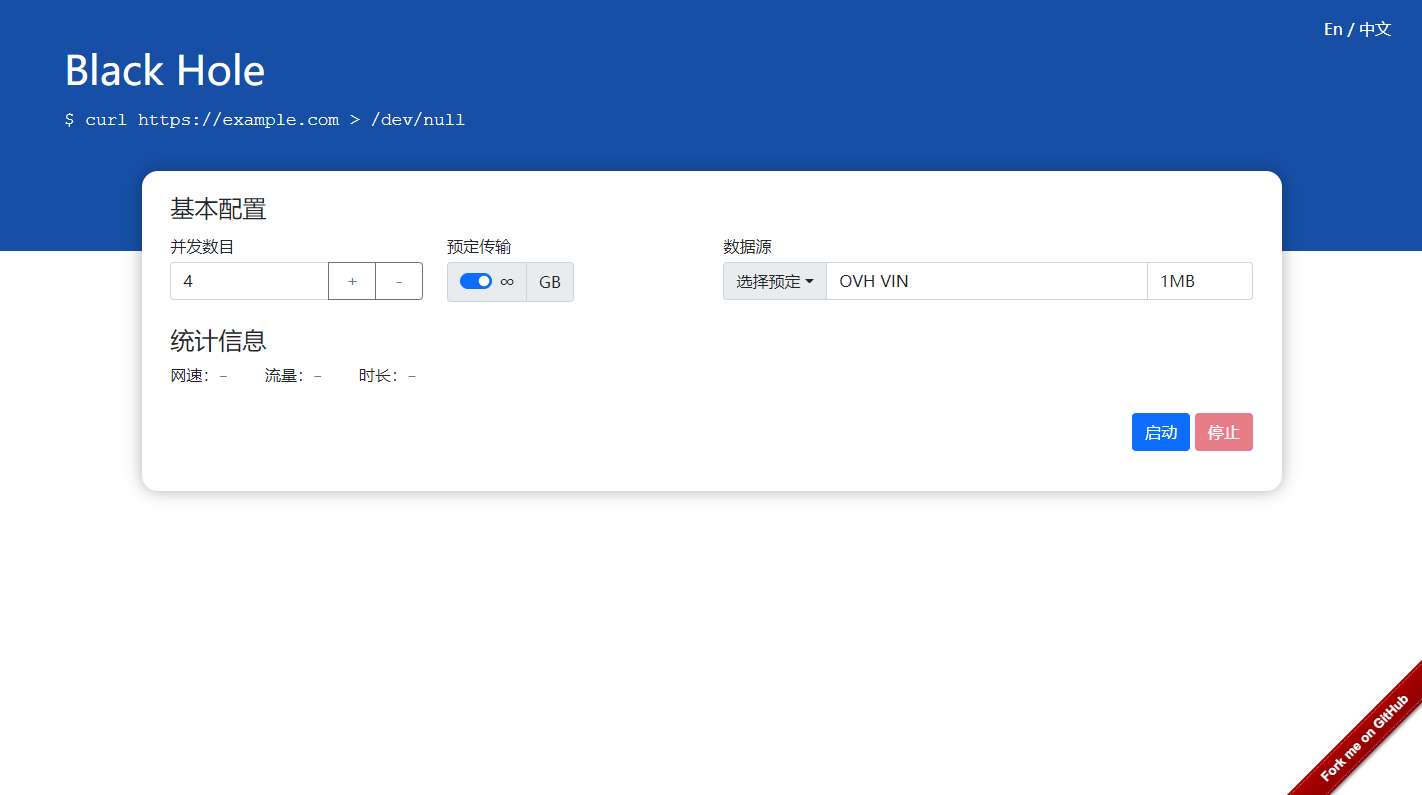
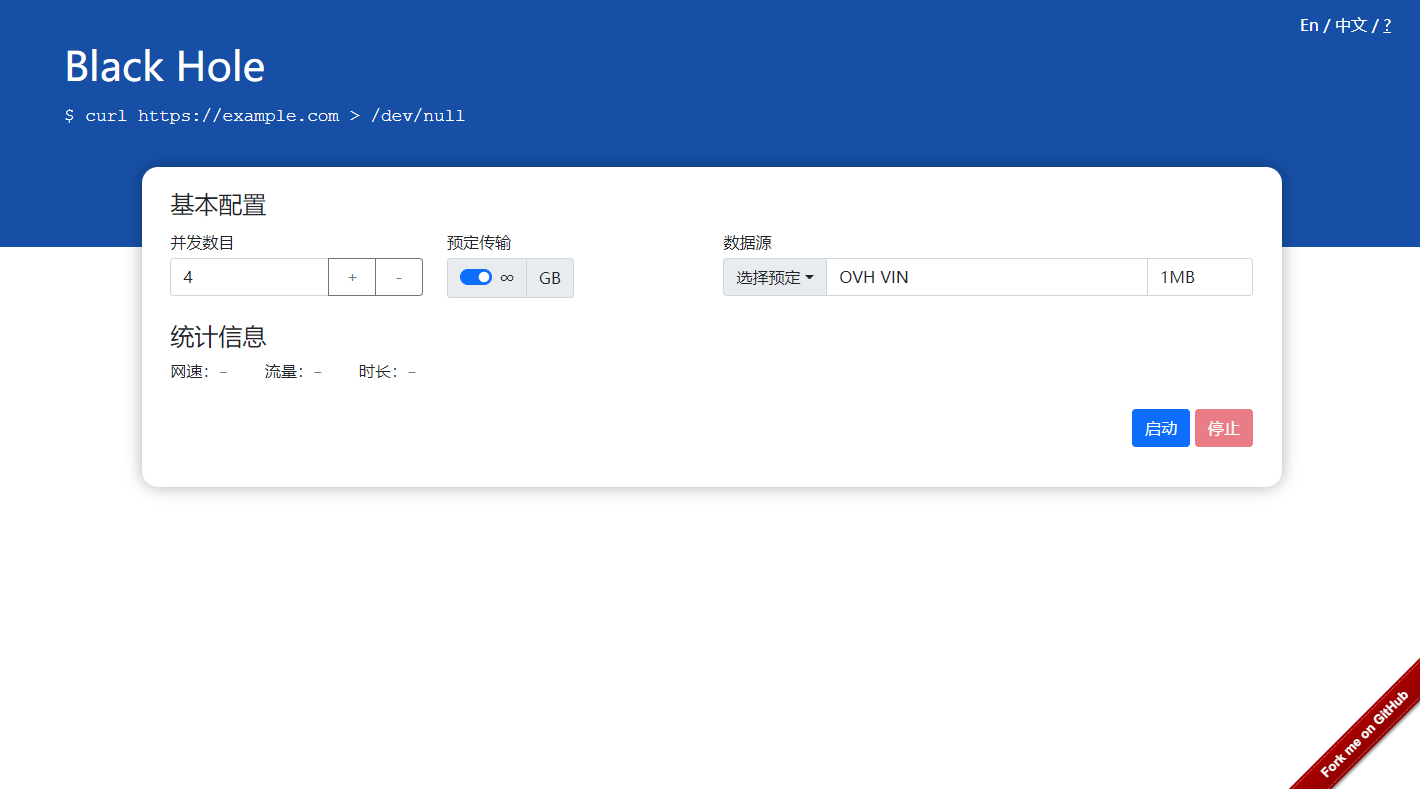
change readme & add helper to index.html

diff --git a/docs/index.html b/docs/index.html
@@ -20,7 +20,8 @@
         <header>
             <h1>Black Hole</h1>
             <h2 class="code">$ curl https://example.com > /dev/null</h2>
-            <div class="lang"><span data-lang="en">En</span> / <span data-lang="cn">中文</span></div>
+            <div class="lang"><span data-lang="en">En</span> / <span data-lang="cn">中文</span>
+                / <a href="#helper-container" style="color: white;">?</a></div>
         </header>
         <form id="app">
             <h4 for="task-count-group" class="form-label">{{ $t('message.s2') }}</h4>
@@ -170,7 +171,22 @@
     </section>
 
     <section id="helper-container">
-        <h2>About</h2>
+        <h2>关于</h2>
+        <p>
+            为了方便测量代理服务和网络质量，我开发了这个简单的项目。这个小玩具唯一的作用就是不断消耗网络流量，记录速度、流量等统计信息。 如果使用代理软件（如 vpn、sock5/http 代理）访问改网站，就可以知道代理网络的质量如何。
+        </p>
+        <h2>注意</h2>
+        <h3>1. 测试过程中<b>不会</b>消耗网站所在服务器的流量</h3>
+        <p>
+            有趣的设计是这个项目使用了一些公共looking glass服务作为数据源，所以在测试过程中它不会消耗主机提供商的流量。 如果你想自己托管它，这一点就非常有意义。
+        </p>
+        <h3>2. 测试过程中不要忘记开代理</h3>
+        <p>
+            测试过程中不要忘记开代理，否则花费的仅是你本地网络的流量而不会消耗代理服务器的流量。
+        </p>
+
+
+        <h2 style="margin-top: 6rem;">About</h2>
         <p>
             In order to measure proxy service and network quality conveniently, I developed this simple project. The
             only function of this toy is to consume network traffic continuously, and record the statistics infomation

diff --git a/docs/style.css b/docs/style.css
@@ -143,3 +143,9 @@ header .lang span:hover {
   line-height: 1.5;
   font-size: 1.1rem;
 }
+#helper-container h2 {
+  font-size: 1.5rem;
+}
+#helper-container h3 {
+  font-size: 1.3rem;
+}

diff --git a/docs/style.less b/docs/style.less
@@ -157,4 +157,10 @@ header {
         line-height: 1.5;
         font-size: 1.1rem;
     }
+    h2 {
+        font-size: 1.5rem;
+    }
+    h3 {
+        font-size: 1.3rem;
+    }
 }

diff --git a/readme.md b/readme.md
@@ -1,10 +1,17 @@
 # TrafficBlackhole
-In order to measure proxy service and network quality conveniently, I developed this simple project. The only function of this toy is to consume network traffic continuously, and record the statistics infomation such as speed and traffic amount.  If you are using a proxy software (like vpn, sock5/http proxy), you'll know the quality of your network.
 
-## Notice
+中文 | [English](./readme_en.md)
 
-1. It **won't** consume your traffic during the test.
-The interesting design is that this project use some public looking glass service as data source, so it won't consume host provider's traffic during the test. If you want to self-host it, this is very significative.
+为了方便测量代理服务和网络质量，我开发了这个简单的项目。这个小玩具唯一的作用就是不断消耗网络流量，记录速度、流量等统计信息。 如果使用代理软件（如 vpn、sock5/http 代理）访问改网站，就可以知道代理网络的质量如何。
 
-2. Don't forget turn on your proxy service
-If you want to measure proxy service, add the website to your proxy list or using global proxy mode.
+<img src="./docs/screenshot.png">
+
+## 注意
+
+1. 测试过程中**不会**消耗网站所在服务器的流量
+
+有趣的设计是这个项目使用了一些公共looking glass服务作为数据源，所以在测试过程中它不会消耗主机提供商的流量。 如果你想自己托管它，这一点就非常有意义。
+
+2. 测试过程中不要忘记开代理
+
+测试过程中不要忘记开代理，否则花费的仅是你本地网络的流量而不会消耗代理服务器的流量。

diff --git a/readme_en.md b/readme_en.md
@@ -1,0 +1,15 @@
+# TrafficBlackhole
+
+[中文](./readme.md) | English
+
+In order to measure proxy service and network quality conveniently, I developed this simple project. The only function of this toy is to consume network traffic continuously, and record the statistics infomation such as speed and traffic amount.  If you are using a proxy software (like vpn, sock5/http proxy), you'll know the quality of your network.
+
+<img src="./docs/screenshot_en.png">
+
+## Notice
+
+1. It **won't** consume your traffic during the test.
+The interesting design is that this project use some public looking glass service as data source, so it won't consume host provider's traffic during the test. If you want to self-host it, this is very significative.
+
+2. Don't forget turn on your proxy service
+If you want to measure proxy service, add the website to your proxy list or using global proxy mode.
